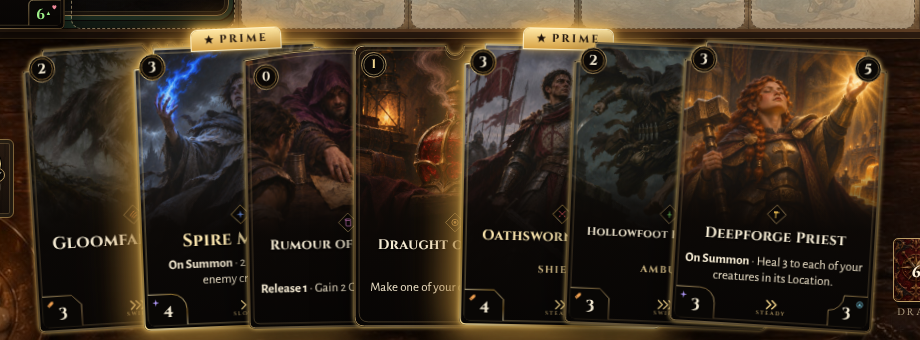
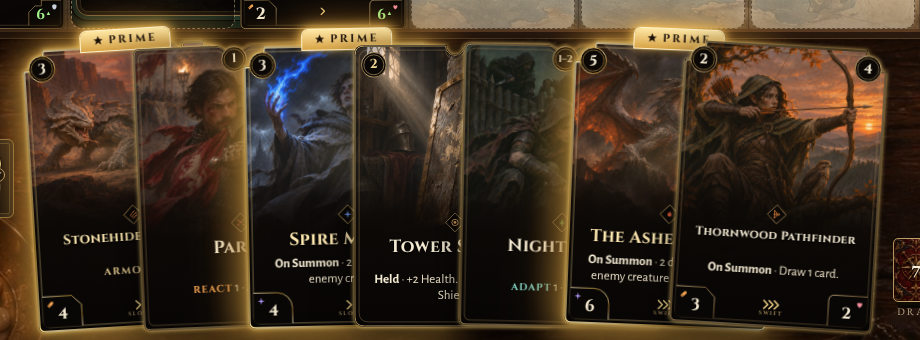
Stage F: the hand sits 10 px lower so the Prime tab clears the board; the Warlord's lifted copy sizes itself; the series line's numbers
Claude-Session: https://claude.ai/code/session_01PfomRVSDGtFzY92diN3VpL

diff --git a/src/ui/board.css b/src/ui/board.css
@@ -144,7 +144,7 @@ html, body { margin: 0; height: 100%; overflow: hidden; background: #0b0806; }
 /* --- The hand (Minis, 200 × 280) --- */
 .hand { position: absolute; inset: 0; pointer-events: none; z-index: 20; }
 .hand-card { position: absolute; width: 200px; height: 280px; transform-origin: 50% 100%; pointer-events: auto; transition: top 0.15s; }
-.hand-card:hover { top: 770px !important; z-index: 40 !important; }
+.hand-card:hover { top: 787px !important; z-index: 40 !important; }
 .hand-card.playable { cursor: pointer; }
 .hand-card.playable .card { filter: drop-shadow(0 0 2px rgba(240,200,110,0.95)) drop-shadow(0 10px 18px rgba(0,0,0,0.6)); }
 .hand-card.selected .card { filter: drop-shadow(0 0 3px #fff2c4) drop-shadow(0 0 12px rgba(255,230,150,0.9)); }
@@ -352,7 +352,7 @@ body.low-motion .ambient { display: none; }
 /* Stage F: a card in hand at its Prime: a gold edge glow and a "★ PRIME" tab standing above its top edge (it stays
    readable when the hand overlaps, and never covers a cost or a name). */
 .hand-card.at-prime { filter: drop-shadow(0 0 6px rgba(255,200,90,.95)) drop-shadow(0 0 16px rgba(255,170,60,.55)); }
-.prime-tab { position: absolute; z-index: 30; left: 58px; top: -17px; display: flex; gap: 5px; align-items: center; padding: 3px 12px 4px; border-radius: 6px 6px 0 0; pointer-events: none;
+.prime-tab { position: absolute; z-index: 30; left: 58px; top: -18px; display: flex; gap: 5px; align-items: center; padding: 2px 12px 2px; border-radius: 6px 6px 0 0; pointer-events: none;
   font: 700 11px/1.2 Cinzel, serif; letter-spacing: 2.4px; color: #1a0f08; white-space: nowrap; background: linear-gradient(#ffe8a6, #d9a446); box-shadow: 0 0 0 1px #fff2c8, 0 0 10px rgba(255,200,90,.8); }
 .prime-tab svg { width: 11px; height: 11px; fill: #1a0f08; }
 

diff --git a/src/ui/presenter.js b/src/ui/presenter.js
@@ -8,7 +8,7 @@
 // Released Pile; Renown flows to the Warlord's dial as a ribbon of light.
 import { renderCard, cardBack } from './cards.js';
 import { accentOf, esc, HUMAN, AI, artOf, tintOf } from './text.js';
-import { handLayout, LANE_W } from './view.js';
+import { handLayout, LANE_W, HAND } from './view.js';
 import { hasGuard } from '../engine/game.js';
 import { runEffect } from './vfx/runner.js';
 import { BEAT_EFFECTS, attackEffectFor, attackVars, effectFor, healFlags, heldEffectFor, cardByName, eventFlags, reactFlags, cinematicFor, CINEMATICS } from './vfx/library.js';
@@ -316,7 +316,7 @@ export function createPresenter(stage, { settings, onBeat, vfx = null }) {
       if (who === AI) return { cx: 720, cy: 60 };
       const i = prev.players[HUMAN].hand.findIndex((c) => c.uid === uid);
       const pos = handLayout(prev.players[HUMAN].hand.length)[i];
-      return pos ? { cx: pos.x + 100, cy: 786 + 140 } : { cx: 760, cy: 930 };
+      return pos ? { cx: pos.x + 100, cy: HAND.y + 140 } : { cx: 760, cy: 940 };
     };
     // A number landing; a stat on a card flashes as it changes (card design v4: the tab's number).
     const setText = (el, v) => {

diff --git a/src/ui/cards.js b/src/ui/cards.js
@@ -115,7 +115,7 @@ export function seriesLine(c, round = null) {
   const def = isCreature(c) ? safeDef(c.id) : null;
   if (!def?.forms || def.series === 'Legendary' || def.prime == null) return '';
   const now = round === null ? null : levelFor(def.series, round);
-  const rings = levelsOf(def).map((lv, i) => `${i ? '<i class="sl-sep"></i>' : ''}<span class="sl-c${lv === def.prime ? ' prime' : ''}${lv === now ? ' now' : ''}" data-level="${lv}">${lv}</span>`).join('');
+  const rings = levelsOf(def).map((lv, i) => `${i ? '<i class="sl-sep"></i>' : ''}<span class="sl-c${lv === def.prime ? ' prime' : ''}${lv === now ? ' now' : ''}" data-level="${lv}"><b>${lv}</b></span>`).join('');
   return `<div class="series-line" data-series="${esc(def.id)}"><span class="sl-t">LEVELS</span><span class="sl-l">${rings}</span></div>`;
 }
 const accKey = (c) => (isCreature(c) ? (c.traits?.class ?? c.traits?.kind) : c.cardType === 'Action' ? c.traits?.class : c.cardType);

diff --git a/src/ui/view.js b/src/ui/view.js
@@ -13,7 +13,8 @@ import { endScreen } from './screens.js';
 export const LANE_W = 1532 / 9;
 export const MAP = { x: 24, y: 128, w: 1532, h: 644 };
 export const ROW_Y = { [AI]: 18, [HUMAN]: 408 };
-export const HAND = { x: 340, w: 830, y: 786 };
+// (Stage F: 10 px lower than before, so the "★ PRIME" tab above a card at its Prime clears the board.)
+export const HAND = { x: 340, w: 830, y: 796 };
 
 const pct = (n, d) => Math.max(0, Math.min(100, Math.round((100 * n) / Math.max(1, d))));
 const dial = (n, d, size, inner) => `<div class="dial" style="width:${size}px;height:${size}px;background:conic-gradient(#c7a15a 0 ${pct(n, d)}%, rgba(199,161,90,0.18) ${pct(n, d)}% 100%)"><div class="dial-in" style="width:${inner}px;height:${inner}px">${'$'}</div></div>`;

diff --git a/src/ui/react.css b/src/ui/react.css
@@ -12,7 +12,7 @@
 .rx-lift { position: absolute; pointer-events: none; transform: scale(1.06); transform-origin: 50% 50%; transition: transform .18s ease-out, filter .18s ease-out; }
 .rx-lift > * { position: relative !important; left: 0 !important; top: 0 !important; margin: 0 !important; }
 .rx-lift { font-family: 'EB Garamond', Georgia, serif; }
-.rx-lift.warlord > .warlord { width: max-content; min-width: 100%; height: 100%; }
+.rx-lift.warlord > .warlord { width: max-content; }
 .rx-lift.warlord .warlord-title { white-space: nowrap; }
 /* A card a React would change: ready, hidden, until its plate is hovered. */
 .rx-lift.opt { opacity: 0; }

diff --git a/src/ui/cards.css b/src/ui/cards.css
@@ -119,5 +119,6 @@ body.sheet #viewport { position: static; }
 .sl-c.now { box-shadow: inset 0 0 0 2px #f4ead2, 0 0 0 2px rgba(10,6,4,.9); color: #f4ead2; }
 .sl-c.prime.now { box-shadow: inset 0 0 0 2px #1a0f08, 0 0 0 2px #fff1c4, 0 0 12px rgba(255,196,80,.9); color: #1a0f08; }
 .sl-c.now::before { content: 'NOW'; position: absolute; bottom: -14px; font: 700 8px/1 Cinzel, serif; letter-spacing: 1.5px; color: #f4ead2; }
+.sl-c b { font: inherit; }
 .sl-sep { width: 8px; height: 1px; background: rgba(226,190,120,.35); }
 .sheet-series { display: flex; justify-content: center; margin-top: -4px; }

diff --git a/src/ui/react.js b/src/ui/react.js
@@ -151,7 +151,7 @@ export function buildMoment(stage, s, react, { lowMotion = false, choosing = fal
     involved.push(b);
     const copy = el.cloneNode(true);
     copy.removeAttribute('data-region');
-    html += `<div class="rx-lift warlord" style="left:${b.x}px;top:${b.y}px;width:${b.w}px;height:${b.h}px">${copy.outerHTML}</div>`;
+    html += `<div class="rx-lift warlord" style="left:${b.x}px;top:${b.y}px">${copy.outerHTML}</div>`;
     return b;
   };
 
